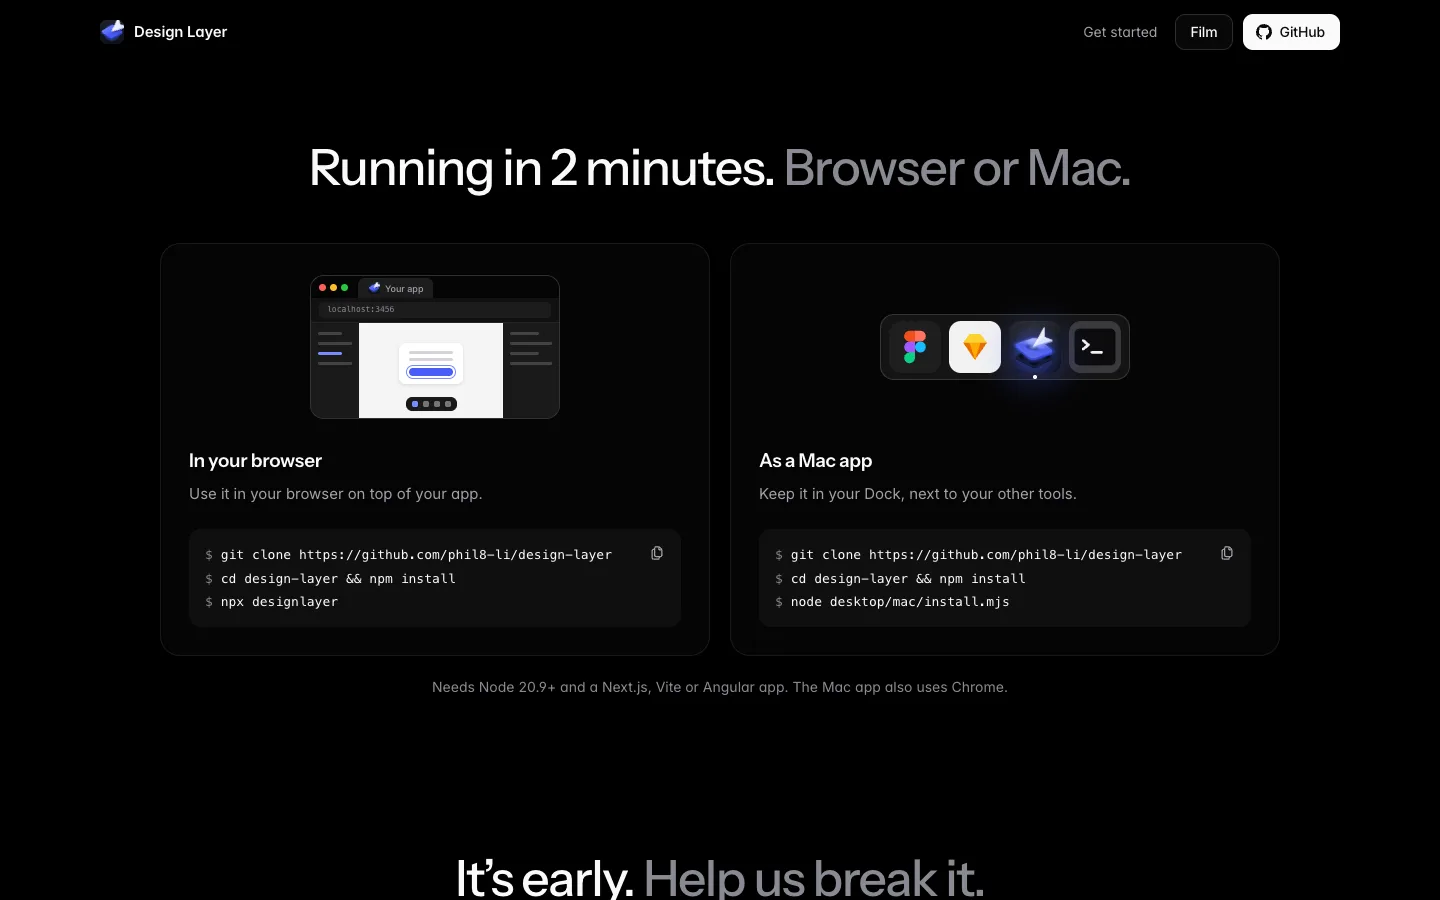
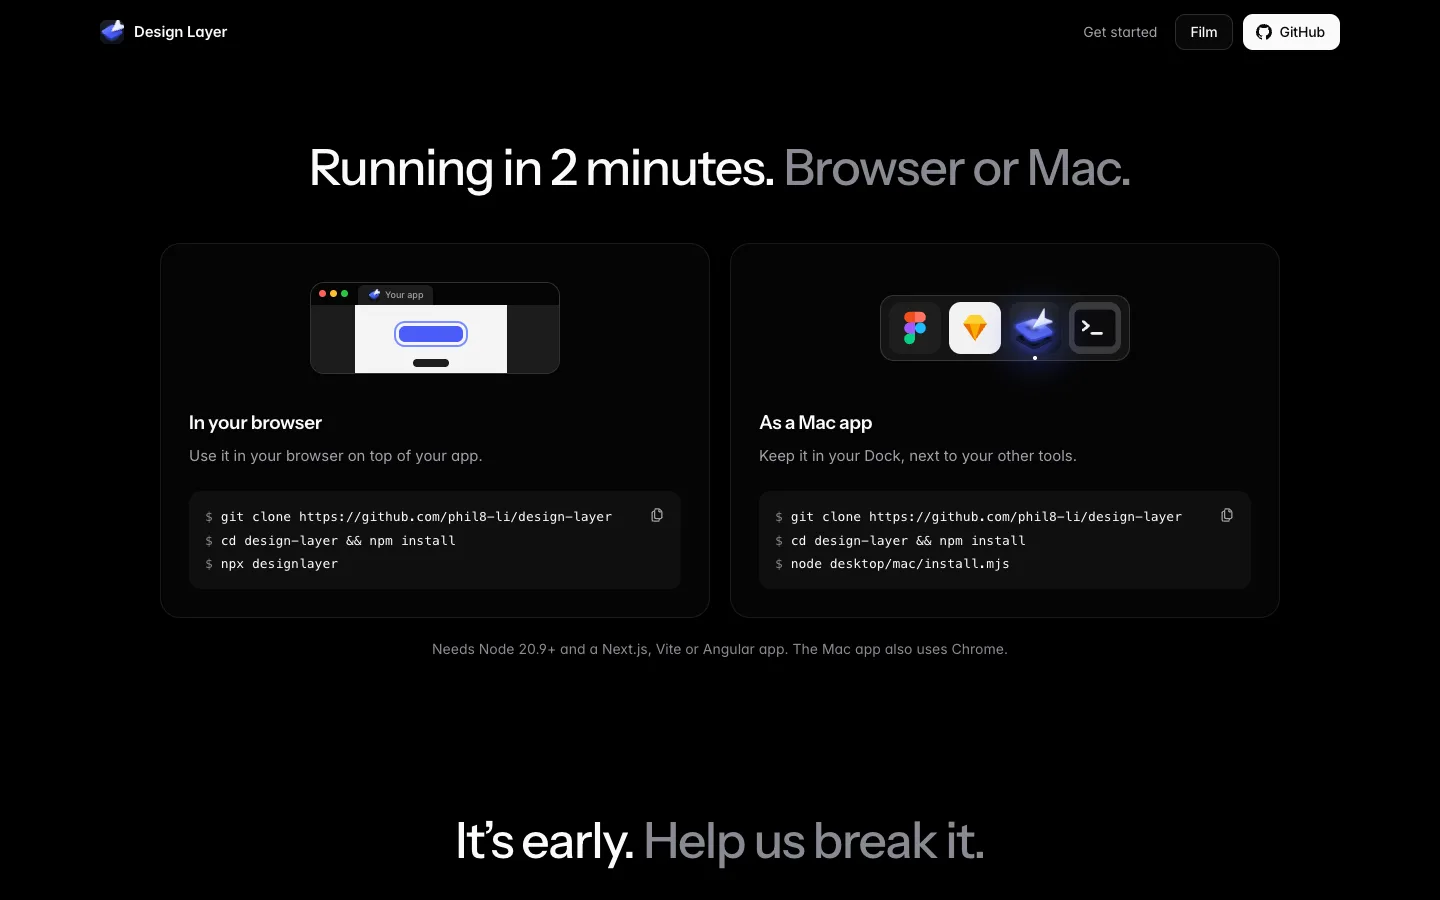
The browser card's picture is simpler and the same weight as the Dock beside it
The editor-in-a-browser picture carried an address bar, layer rows,
inspector rows and a card with text lines, and stood more than twice as
tall as the Dock. It now keeps only what says "the editor, in a browser
tab": window buttons, the "Your app" tab, plain side panels, the floating
toolbar and one selected button. At 250 by 92 beside the Dock's 250 by
66, the two cards read as a pair.

AI-assisted (CloudCode).

diff --git a/landing/styles.css b/landing/styles.css
@@ -1538,11 +1538,11 @@ h2 {
 .path-scene {
   display: grid;
   place-items: center;
-  height: 150px;
+  height: 112px;
   margin-bottom: 24px;
 }
 
-/* One width for both: the editor in a browser window, and the Dock. */
+/* One width for both: the editor in a browser tab, and the Dock. */
 .mini-window,
 .mini-dock {
   width: 250px;
@@ -1592,42 +1592,14 @@ h2 {
   font: 500 9px/1 var(--font);
 }
 
-.mini-url {
-  margin: 4px 8px;
-  padding: 3px 8px;
-  border-radius: 5px;
-  background: #1c1c1c;
-  color: var(--text-3);
-  font: 8px/1.2 var(--mono);
-}
-
 .mini-editor {
   display: grid;
-  grid-template-columns: 48px 1fr 56px;
-  height: 96px;
-  border-top: 1px solid var(--line);
+  grid-template-columns: 44px 1fr 52px;
+  height: 68px;
 }
 
 .mini-panel {
-  display: grid;
-  align-content: start;
-  gap: 7px;
-  padding: 9px 7px;
-  background: #1a1a1a;
-}
-
-.mini-panel i {
-  height: 3px;
-  border-radius: 2px;
-  background: rgb(255 255 255 / 0.18);
-}
-
-.mini-panel i:nth-child(odd) {
-  width: 70%;
-}
-
-.mini-panel i.is-on {
-  background: var(--accent);
+  background: #1c1c1c;
 }
 
 .mini-canvas {
@@ -1637,66 +1609,37 @@ h2 {
   background: #f4f4f5;
 }
 
-.mini-card {
-  display: grid;
-  justify-items: center;
-  gap: 4px;
-  width: 64px;
-  margin-bottom: 14px;
-  padding: 8px 0;
-  border-radius: 6px;
-  background: #fff;
-  box-shadow: 0 1px 3px rgb(0 0 0 / 0.12);
-}
-
-.mini-card i {
-  width: 70%;
-  height: 3px;
-  border-radius: 2px;
-  background: #d4d4d8;
-}
-
-.mini-card b {
-  width: 70%;
-  height: 8px;
-  margin-top: 3px;
-  border-radius: 4px;
-  background: var(--accent-fill);
-  outline: 1.5px solid var(--accent);
-  outline-offset: 2px;
-}
-
-.mini-tools {
+/* The editor's floating toolbar. */
+.mini-canvas::after {
+  content: "";
   position: absolute;
-  bottom: 7px;
-  display: flex;
-  gap: 5px;
-  padding: 4px 6px;
+  bottom: 6px;
+  width: 36px;
+  height: 8px;
+  border-radius: 4px;
+  background: #1c1c1c;
+}
+
+.mini-canvas b {
+  width: 64px;
+  height: 16px;
+  margin-bottom: 10px;
   border-radius: 6px;
-  background: #1a1a1a;
+  background: var(--accent-fill);
+  outline: 2px solid var(--accent);
+  outline-offset: 3px;
 }
 
-.mini-tools i {
-  width: 6px;
-  height: 6px;
-  border-radius: 2px;
-  background: rgb(255 255 255 / 0.4);
-}
-
-.mini-tools i:first-child {
-  background: var(--accent);
-}
-
-.js .scene-browser .mini-card b {
+.js .scene-browser .mini-canvas b {
   outline-color: transparent;
-  outline-offset: 6px;
+  outline-offset: 8px;
   transition: 450ms var(--ease-out) 400ms;
   transition-property: outline-color, outline-offset;
 }
 
-.scene-browser.is-in .mini-card b {
+.scene-browser.is-in .mini-canvas b {
   outline-color: var(--accent);
-  outline-offset: 2px;
+  outline-offset: 3px;
 }
 
 .mini-dock {

diff --git a/landing/index.html b/landing/index.html
@@ -323,11 +323,10 @@ Loading…</code><code data-agent-close hidden></code></pre>
             <div class="path-scene scene-browser" data-arrive aria-hidden="true">
               <div class="mini-window">
                 <div class="mini-tabs"><i></i><i></i><i></i><span class="mini-tab"><img src="assets/brand/mark.svg" width="12" height="12" alt="">Your app</span></div>
-                <div class="mini-url">localhost:3456</div>
                 <div class="mini-editor">
-                  <div class="mini-panel"><i></i><i></i><i class="is-on"></i><i></i></div>
-                  <div class="mini-canvas"><div class="mini-card"><i></i><i></i><b></b></div><div class="mini-tools"><i></i><i></i><i></i><i></i></div></div>
-                  <div class="mini-panel"><i></i><i></i><i></i><i></i></div>
+                  <div class="mini-panel"></div>
+                  <div class="mini-canvas"><b></b></div>
+                  <div class="mini-panel"></div>
                 </div>
               </div>
             </div>

diff --git a/landing/DESIGN.md b/landing/DESIGN.md
@@ -22,7 +22,7 @@ who set it. A newer statement replaces the older line.
 
 ## Story
 
-- Get started: the two cards are twins. Each opens on a picture of one width (250px): for In your browser, a browser window (window buttons, a "Your app" tab, the address bar) with the editor inside it, its two side panels and bottom toolbar around your app and one selected button; for As a Mac app, only the Dock: Figma, Sketch, Design Layer (third) and Terminal. Then a title, one line and the commands. Scope: index.html `#start`, styles.css `.mini-window`, `.mini-dock`. Source: Phil, 2026-10-07.
+- Get started: the two cards are twins. Each opens on a picture of one width (250px) and similar height (about 90px and 66px): for In your browser, a browser window kept simple (window buttons, a "Your app" tab, plain side panels, the floating toolbar and one selected button on your app; no address bar, rows or text); for As a Mac app, only the Dock: Figma, Sketch, Design Layer (third) and Terminal. Then a title, one line and the commands. Scope: index.html `#start`, styles.css `.mini-window`, `.mini-dock`. Source: Phil, 2026-10-07.
 - Section order: after the hero comes Design like Figma, then the design system, then the board, then working with an agent, then the rest. Each section teaches one more capability on top of the hero's promise; there is no section between the hero and Design like Figma. Scope: index.html. Source: Phil, 2026-10-05.
 - A tabbed section only holds tabs that prove its headline. A feature that serves another section's promise moves there (Design options lives in the agent section as Compare); one that serves none is cut (Shortcuts, Responsive, Light theme and Live preview left Design like Figma). Scope: index.html. Source: Phil, 2026-10-05.
 - Headlines name the value plainly; no contrast phrases that need decoding ("Not ours" was cut). Scope: index.html. Source: Phil, 2026-10-05.
